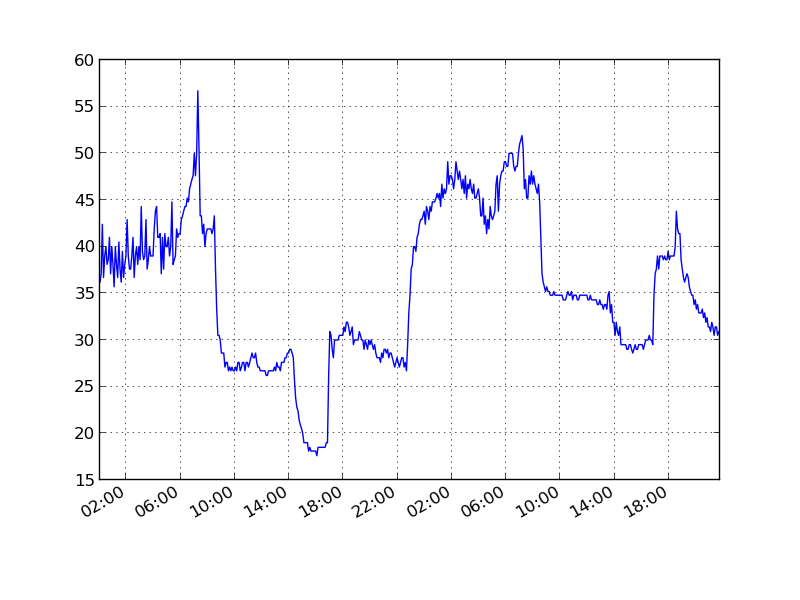
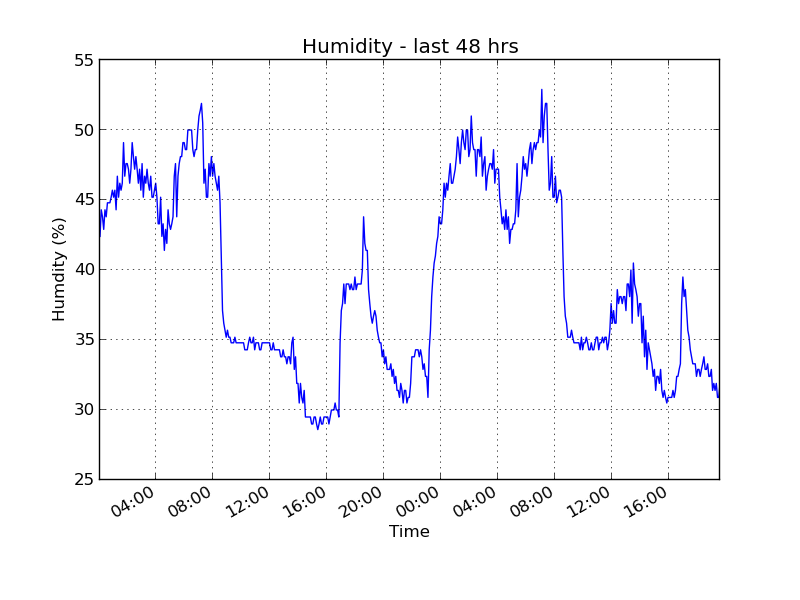
Added titles to the humidity plot

diff --git a/makeplot.py b/makeplot.py
@@ -46,6 +46,10 @@ with con:
     ax = fig.add_subplot(111)
     ax.plot(xdata, ydata)
     fig.autofmt_xdate()
+ 
+    ax.set_ylabel('Humdity (%)')
+    ax.set_xlabel('Time')
+    ax.set_title('Humidity - last 48 hrs')
    
     ax.xaxis.set_major_locator(hours)
     ax.xaxis.set_major_formatter(daysFmt)
